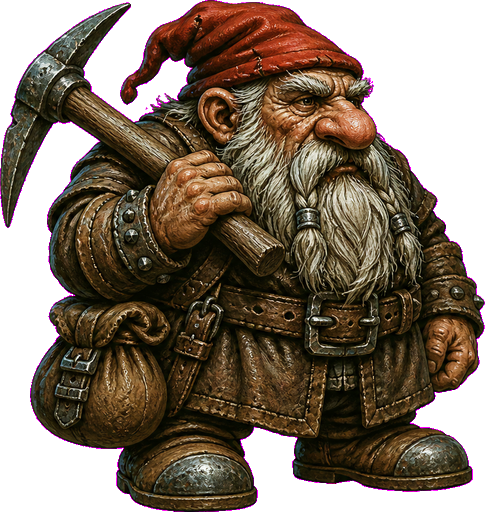
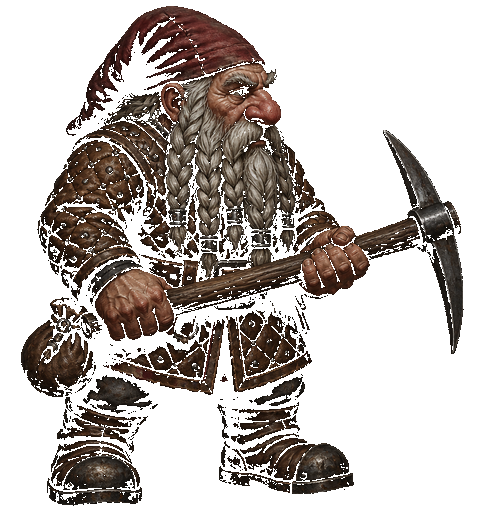
Bind Limner-signed title-law Pordum idle (ASSET_VER 82). (#171)
Red cap, white beard, pick. Walk/atk unchanged.

diff --git a/src/ui/Ch1RubbleLoad.test.js b/src/ui/Ch1RubbleLoad.test.js
@@ -45,7 +45,7 @@ assert(!/else if\(okTex\)\{/.test(html),
   'generated TEX diamonds are not a first-frame floor/wall fallback');
 assert(/tile_floor_mine\.png\?v=60/.test(html) && /tile_wall_worked\.png\?v=60/.test(html),
   'mine floor and worked wall are preloaded before first present');
-assert(/ASSET_VER='81'/.test(html), 'asset cache-bust matches punched living-Macar sheets');
+assert(/ASSET_VER='82'/.test(html), 'asset cache-bust matches punched living-Macar sheets');
 assert(/function scatterBurialRubble\(/.test(html) && /fallen:1/.test(html) && /k:'dust'/.test(html),
   'cave-in entry scatters extra timber, stone, and dust around the burial');
 assert(/function drawFallenBeam\(/.test(html) && /function drawFloorDust\(/.test(html),

diff --git a/src/combat/ElvenkindBoots.test.js b/src/combat/ElvenkindBoots.test.js
@@ -23,7 +23,7 @@ function extractFn(name){
   return m[0];
 }
 
-assert(/ASSET_VER='81'/.test(html), 'ASSET_VER is unchanged');
+assert(/ASSET_VER='82'/.test(html), 'ASSET_VER is unchanged');
 assert(/function wornMoveMul\(/.test(html) && /function moveStep\(/.test(html),
   'wornMoveMul and moveStep exist (extract of move())');
 assert(/function wearingElvenkind\(/.test(html), 'shared wearingElvenkind helper exists');

diff --git a/src/combat/UseMagicItem.test.js b/src/combat/UseMagicItem.test.js
@@ -48,7 +48,7 @@ assert(/nocked|stays packed/.test(useFn), 'plus-shot ammo use is still nock/read
 assert(/EquipmentSlots\.isEquippable\(it\)/.test(useFn),
   'wearable misc (Displacement) dons through isEquippable before the generic buff+heal');
 
-assert(/ASSET_VER='81'/.test(html), 'ASSET_VER is unchanged');
+assert(/ASSET_VER='82'/.test(html), 'ASSET_VER is unchanged');
 
 const ctx={
   G:{equipped:{}},

diff --git a/index.html b/index.html
@@ -348,7 +348,7 @@ const FONT_QUOTE='"Cormorant Garamond",Palatino,Georgia,serif';
 
 /* ---------------------------- painted sprites (Baldur's Gate isometric) ---------------------------- */
 const SPR={};
-const ASSET_VER='81';
+const ASSET_VER='82';
 let SPLASH_STATE='loading';
 function assetUrl(src){
   const u=src+(src.indexOf('?')>=0?'&':'?')+'v='+ASSET_VER;

diff --git a/src/combat/LeftoverMagic.test.js b/src/combat/LeftoverMagic.test.js
@@ -26,7 +26,7 @@ function extractFn(name){
   return m[0];
 }
 
-assert(/ASSET_VER='81'/.test(html), 'ASSET_VER is unchanged');
+assert(/ASSET_VER='82'/.test(html), 'ASSET_VER is unchanged');
 assert(!/id:'vorpal'|id:'bag_of_holding'|id:'arrow_of_slaying'|id:'javelin_of_lightning'/.test(html),
   'no invented leftover-magic item ids');
 
